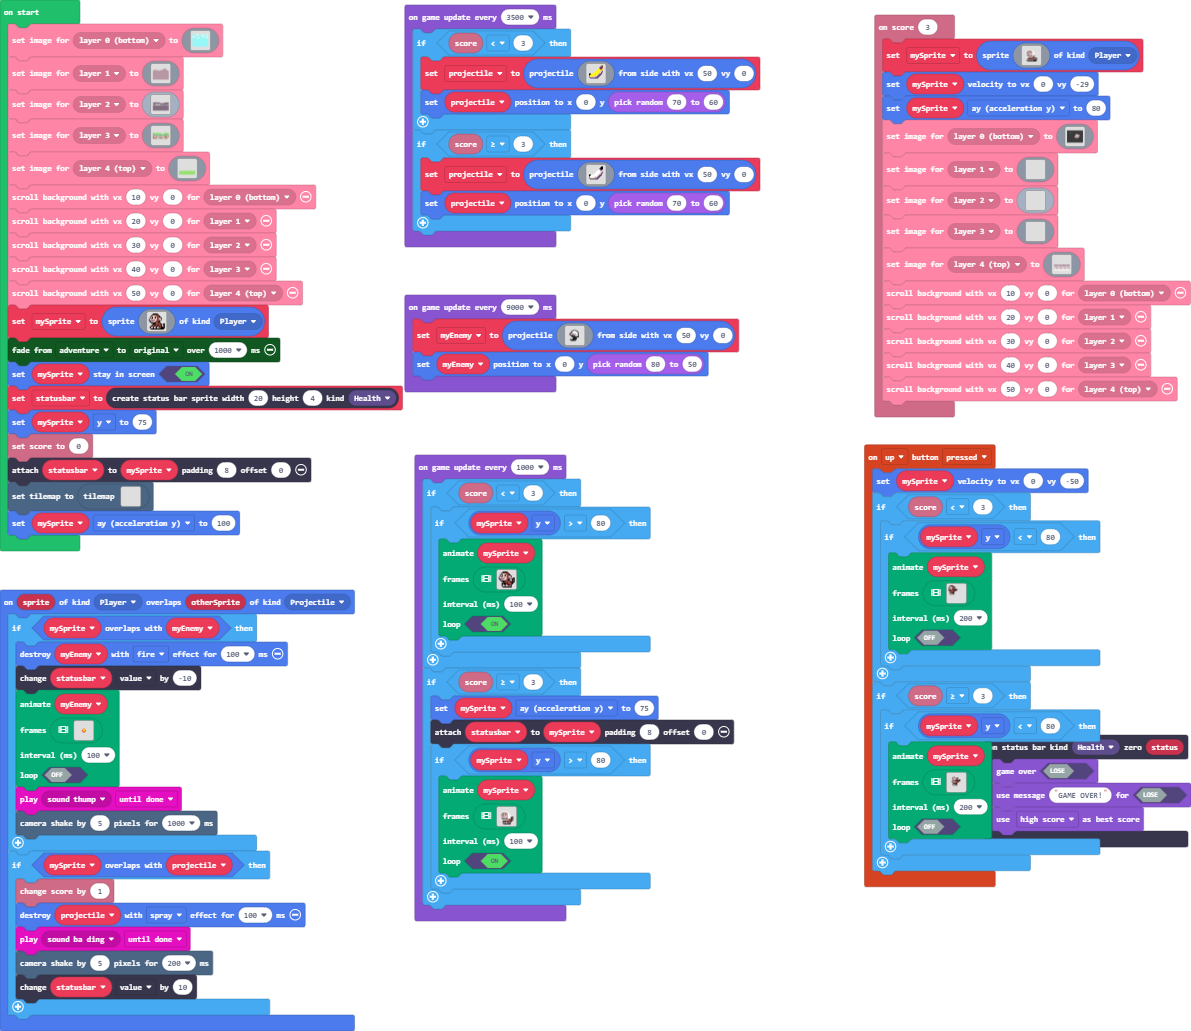
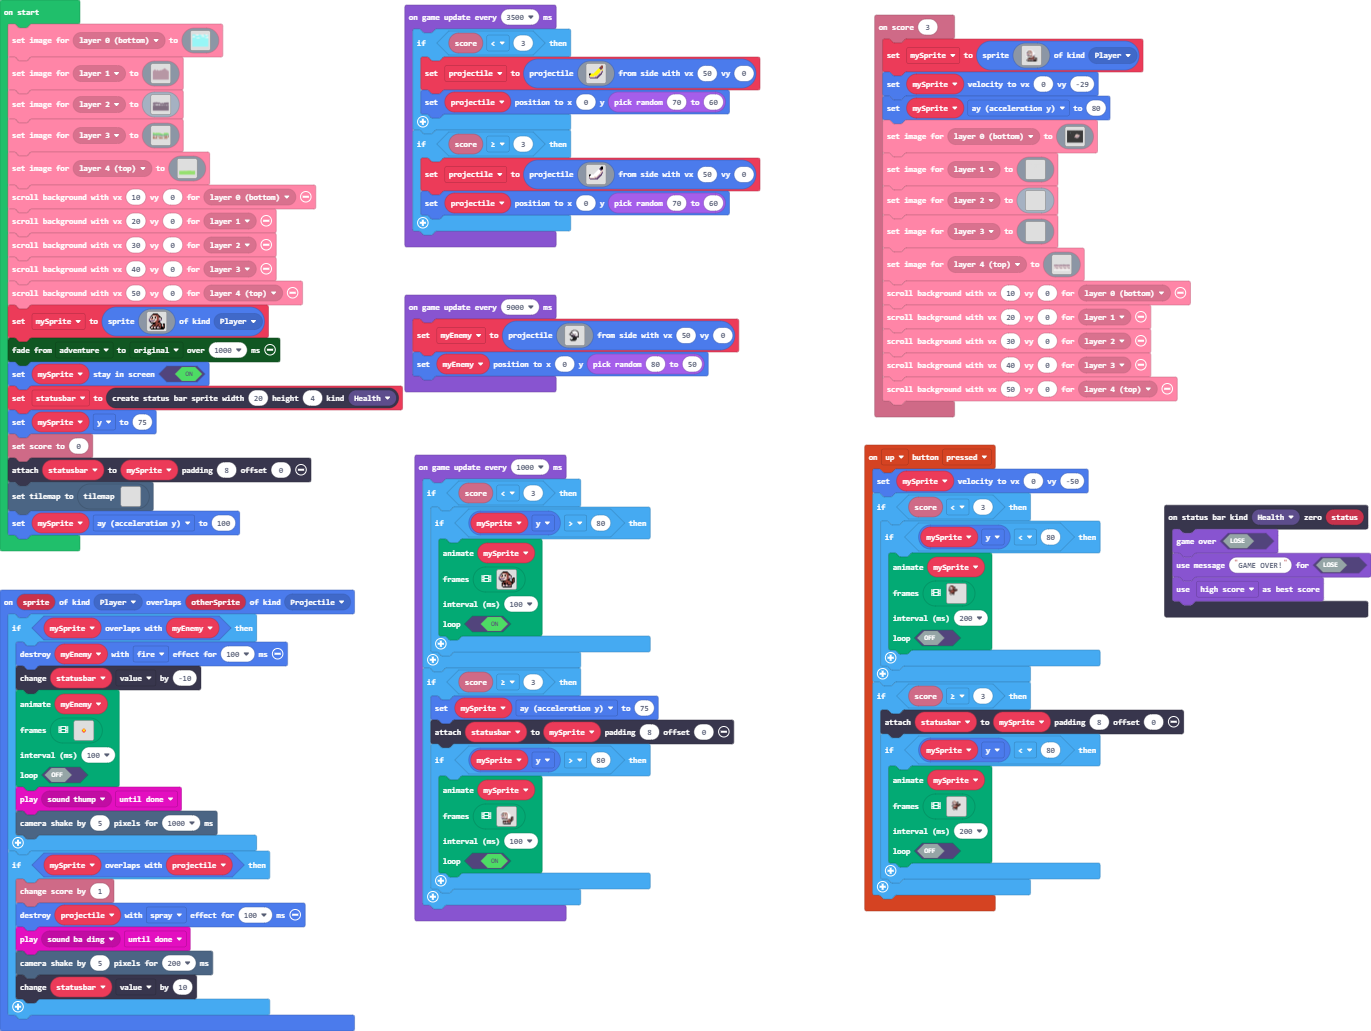
Update main.blocks, main.ts

diff --git a/main.ts b/main.ts
@@ -245,6 +245,7 @@ controller.up.onEvent(ControllerButtonEvent.Pressed, function () {
         }
     }
     if (info.score() >= 3) {
+        statusbar.attachToSprite(mySprite, 8, 0)
         if (mySprite.y < 80) {
             animation.runImageAnimation(
             mySprite,
